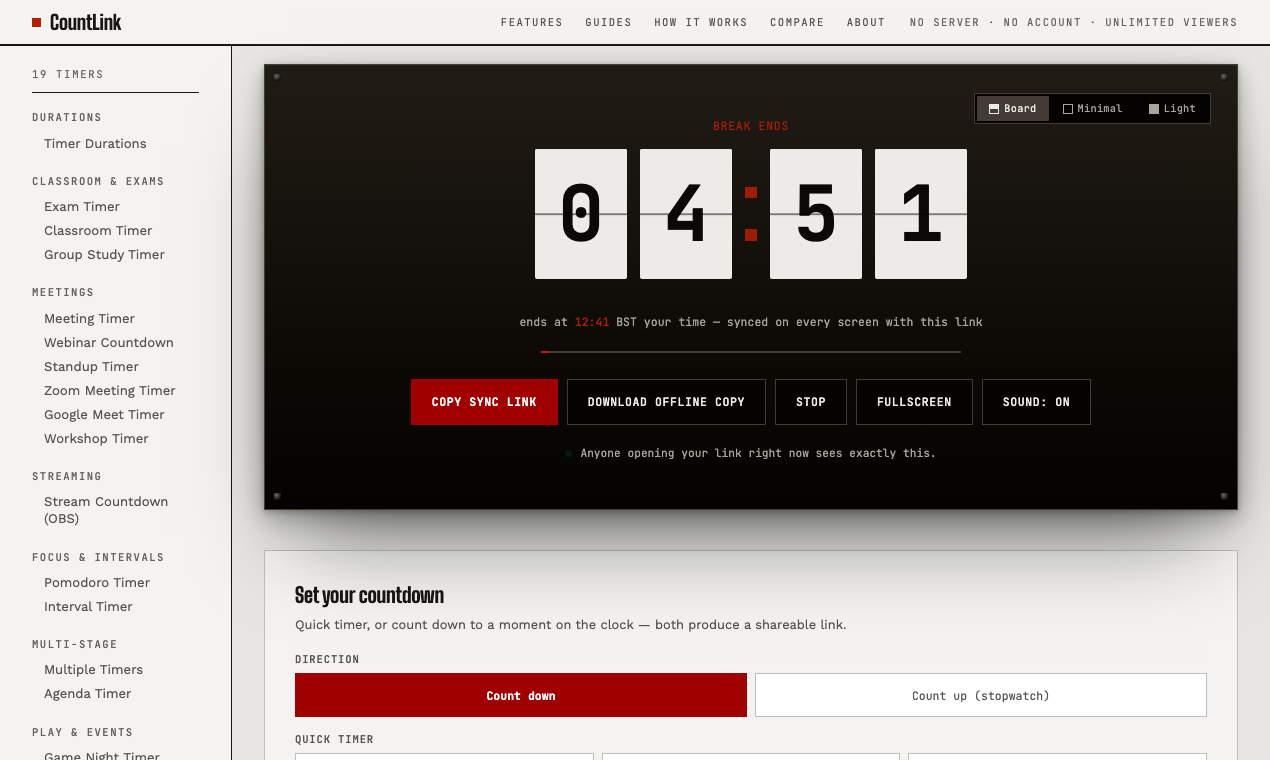
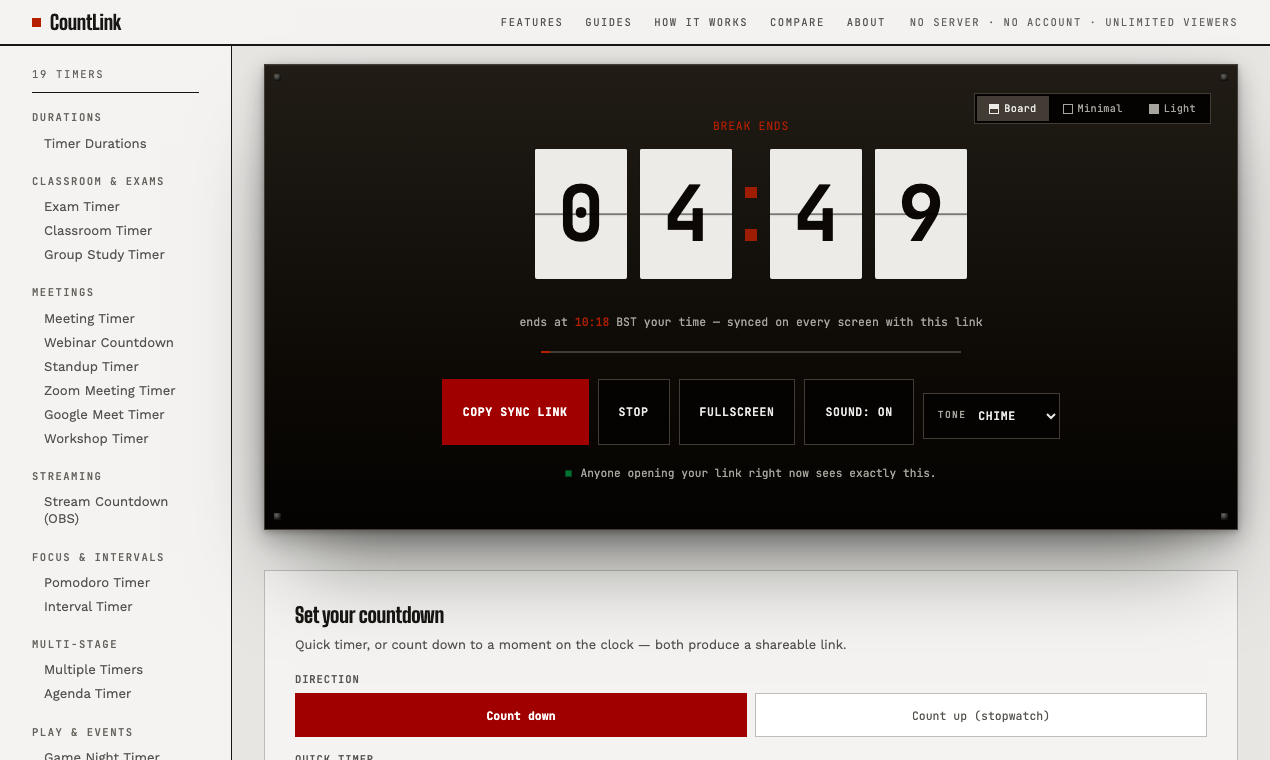
Docs after the 2026-09-26 deploy: SEO status, Bing grounding queries, fresh PH gallery
- seo-strategy: what shipped, the Bing AI Performance grounding queries and
  citation share (no API exists — read monthly in the dashboard), OBS page
  deliberately untouched pending measurement, and the four actions that need
  Bruno (ChatGPT directory, Ably key rotation, Reddit answers, WebMCP trial).
- Product Hunt gallery recaptured from production after the deploy.

diff --git a/docs/seo-strategy.md b/docs/seo-strategy.md
@@ -1,6 +1,65 @@
 # CountLink — competitive SEO strategy
 
-## Status as of 2026-09-24 — read this before anything below
+## Status as of 2026-09-26 — read this before anything below
+
+### What changed on 2026-09-26 (deployed mid-AdSense-review, Bruno's call)
+
+- **Shipped:** phone-control permissions fix (the share link could drive the
+  room's screen), clock correction (`/api/now`), an offline-capable installed
+  app, local QR codes, WebMCP tools, a privacy policy that finally discloses
+  Grow, Ably and browser storage, UX fixes, and a `/mcp` fix so "10 days
+  until launch" is no longer silently capped at 99h 59m 59s. Details are in the
+  commit and in `docs/phone-control-setup.md` / `docs/webmcp.md`.
+- **Content:** only the Pomodoro guide was restructured, into question-headed,
+  directly-answered sections matching its actual queries ("pomodoro meaning",
+  "how does the pomodoro method work", pos 60–90), with no new material. **The
+  OBS page was deliberately not touched** — it is still being measured after
+  the 2026-09-20 rewrite (~mid-Oct).
+- **Clock correction is a new citable fact.** "Every screen checks its clock
+  against a reference time and corrects it" is now in the FAQ, `/how-it-works`,
+  `/features` and `llms.txt`. No competitor that syncs by link does this.
+  Watch whether assistants start repeating it.
+
+### Bing AI Performance — grounding queries (read in the dashboard 2026-09-26)
+
+**No API exists** for this report (checked 2026-09-26; `bing.py` can't pull
+it), so read it by hand monthly: Bing Webmaster → AI Performance →
+countlink.app → List by *Grounding Queries*.
+
+487 Copilot citations since July, rising: 15–31/day in the week to 24 Sep
+against single digits in August. The sampled grounding queries, with
+CountLink's **citation share** (its share of all citations for that query):
+
+| Grounding query | Citations | Share |
+|---|---|---|
+| shared timer | 40 | 25.8% |
+| twitch timer countdown | 18 | 19.4% |
+| group timer | 16 | 28.6% |
+| countdown timer for twitch | 10 | 13.7% |
+| timer link for stream | 6 | 18.8% |
+| countdown timers for twitch | 3 | 17.7% |
+
+So Copilot already treats CountLink as a main source for "shared/group timer"
+(about a quarter of all citations) and a secondary one for Twitch countdowns.
+That's the same cluster Bing ranks, and the same one the OBS page serves.
+
+### Top actions now — all need Bruno's hands
+
+1. **Submit `/mcp` to ChatGPT's plugin directory** — `docs/mcp-submission.md`
+   (identity verification, domain token, test cases all prepared). ChatGPT
+   is 492/494 AI sessions. A directory listing is a second door besides web
+   search citations.
+2. **Rotate the Ably key** — `docs/phone-control-setup.md` § Key rotation.
+   Until the old key is revoked, the permissions fix can be bypassed by
+   anyone who digs the old key out of git history.
+3. **Answer existing Reddit threads** (r/Twitch, r/obs, r/Teachers) —
+   disclosed, useful, one per thread. Drafts and the reasoning are in
+   `docs/human-required-drafts.md`. ChatGPT leans on Reddit for "which tool"
+   answers.
+4. **Register the WebMCP origin trial** — `docs/webmcp.md`. Small, early,
+   no downside.
+
+### Status as of 2026-09-24 (still current except where the above supersedes it)
 
 The July research below still has value (the competitor map, the wedge, "don't
 chase head terms"), but several of its premises have since been **disproved or

diff --git a/docs/producthunt-gallery/README.md b/docs/producthunt-gallery/README.md
@@ -39,7 +39,11 @@ site is clean at a real 375px viewport.
 
 ## The set
 
-Recaptured 2026-09-17 — the Aug 3 originals had gone stale (hero's "00 servers
+Recaptured 2026-09-26 after that day's deploy (the running board lost its
+"Download offline copy" button to the share panel and gained a labelled
+alarm-tone picker; the hero is the compact short-screen layout, since
+1270×760 is under the 900px-tall breakpoint; /features now counts 34).
+Before that, recaptured 2026-09-17 — the Aug 3 originals had gone stale (hero's "00 servers
 to run this" stat was replaced by the three-screens sync illustration on
 2026-09-06; the running board was missing the "Download offline copy" button;
 nav bar was missing the Features link on all three). Always re-diff against
@@ -49,9 +53,9 @@ this project's shipped-feature rate means a few weeks is enough to date these.
 | File | Shows |
 |---|---|
 | `01-hero.png` | Headline, value proposition, the one-link/three-screens sync illustration, trust row (no signup · works on any device · share by link, QR or join code) |
-| `02-running-board.png` | Live countdown at 04:51, "ends at ... synced on every screen with this link", all 5 running-state buttons including Download offline copy |
+| `02-running-board.png` | Live countdown at 04:49 labelled "Break ends", "ends at ... synced on every screen with this link", the running-state row on one line: Copy sync link · Stop · Fullscreen · Sound · Tone |
 | `03-compare.png` | The honest comparison table (clips the Leaderboarded column — the table is wider than the viewport) |
-| `04-features.png` | New: the `/features` page — "32 things, all of them free, none of them behind an account" — added since the last capture. Strong candidate for a 4th gallery slot; scrolling further into it also reaches the MCP-server-for-AI-assistants feature, which is worth a dedicated crop given the SEO data showing AI assistants are CountLink's largest traffic channel. |
+| `04-features.png` | The `/features` page — "34 things, all of them free, none of them behind an account". Strong candidate for a 4th gallery slot; scrolling further into it also reaches the MCP-server-for-AI-assistants feature, which is worth a dedicated crop given the SEO data showing AI assistants are CountLink's largest traffic channel. |
 
 To recapture any of these later, the command is unchanged (see above); for
 `02-running-board.png` specifically, build a `#t=<epoch-ms 5 min out>&l=Break%20ends`

diff --git a/docs/producthunt-draft.md b/docs/producthunt-draft.md
@@ -53,16 +53,14 @@ Would love feedback, especially from anyone who's dealt with the "wait, whose ti
 right?" problem in a classroom or meeting.
 
 ## Gallery / screenshots
-Recaptured live 2026-09-17 in `docs/producthunt-gallery/` (also copied to
-`~/Desktop/countlink-producthunt/` for drag-and-drop upload — the upload tool only
-accepts files shared into the session, not repo paths):
-- [x] Homepage hero (`01-hero.png`) — now shows the three-screens sync illustration, not
-      the old "00 servers" stat
-- [x] Running countdown (`02-running-board.png`) — now includes the Download offline
-      copy button
+Recaptured live 2026-09-26 in `docs/producthunt-gallery/` (see its README for the
+exact capture method), and refreshed in `~/Desktop/countlink-producthunt/` for drag-and-drop upload — the upload
+tool only accepts files shared into the session, not repo paths:
+- [x] Homepage hero (`01-hero.png`) — headline, trust row, three-screens sync illustration
+- [x] Running countdown (`02-running-board.png`) — the running row on one line, with the
+      labelled alarm-tone picker
 - [x] Comparison table (`03-compare.png`)
-- [x] Features page (`04-features.png`) — new; 32 named features, worth the 4th slot
-      since PH's own audience reads feature lists closely
+- [x] Features page (`04-features.png`) — 34 named features
 
 ## Description (long form)
 CountLink is a free, no-signup shared countdown timer. Set a duration or a target time,
